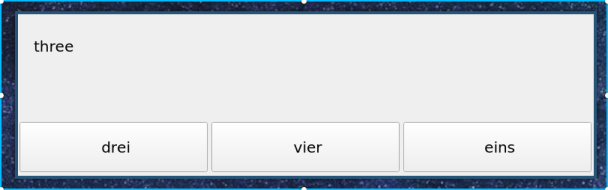
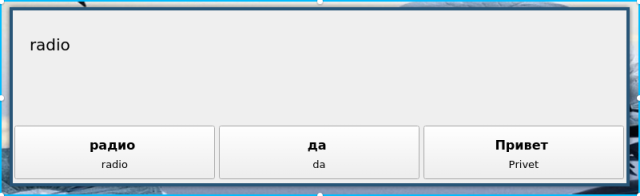
Added dual language buttons.
Subclassed push buttons on testing screen to support multilined,
clickable, text.

diff --git a/vocabBuilder.py b/vocabBuilder.py
@@ -18,7 +18,7 @@ if getattr(sys, 'frozen', False):
 else:
     dir_path = os.path.dirname(os.path.abspath(__file__)) + os.sep
 
-__version__ = '0.2.0'
+__version__ = '0.3.0'
 
 #GUI testing screen options
 window_height = 0.20
@@ -26,10 +26,13 @@ window_width = 0.40
 padding = 0.02
 
 #Program type CLI/GUI
-mode = 'CLI'
+mode = 'GUI'
 
 #Testing variable for pause/run
 testing = True
+
+#Variable for number of columns in csv data file
+langNumber = None
 
 class MainMenu(QMainWindow):
 
@@ -258,6 +261,88 @@ class TrayIcon(QMainWindow):
             testing = True
             self.pause_action.setText('Pause')
 
+#Subclass QLabel so custom mouse events can be used
+class ClickLabel(QLabel):
+
+    def __init(self,parent):
+        QLabel.__init__(self,parent)
+
+    def setCallback(self,press,release):
+        self.press = press
+        self.release = release
+
+    def mousePressEvent(self,event):
+        self.press()
+
+    def mouseReleaseEvent(self,event):
+        self.release()
+
+#Subclass so custom click events and multiline text can be used.
+class QuestionButton(QPushButton):
+
+    def __init__(self,parent,labelNumber,dimensions):
+        QPushButton.__init__(self,parent)
+        self.pressed.connect(self.buttonClicked)
+        self.released.connect(self.buttonReleased)
+        self.labelNumber = labelNumber
+        self.dimensions = dimensions
+        self.initLayout()
+        return
+
+    def initLayout(self):
+
+        btn1_layout = QVBoxLayout()
+        self.btn1_text1 = ClickLabel()
+        self.btn1_text1.setCallback(self.buttonClicked,self.buttonReleased)
+        self.btn1_text1.setTextFormat(QtCore.Qt.RichText);
+        self.btn1_text1.setStyleSheet("background-color: rgba(0,0,0,0%)")
+        self.btn1_text1.setAlignment(QtCore.Qt.AlignCenter | QtCore.Qt.AlignTop)
+        self.btn1_text1.setFixedHeight(self.dimensions['button_height'] / 3)
+        btn1_layout.addWidget(self.btn1_text1)
+
+        if self.labelNumber == 2:
+
+            self.btn1_text2 = ClickLabel()
+            self.btn1_text2.setCallback(self.buttonClicked,self.buttonReleased)
+            self.btn1_text2.setStyleSheet("background-color: rgba(0,0,0,0%)")
+            self.btn1_text2.setTextFormat(QtCore.Qt.RichText);
+            self.btn1_text2.setAlignment(QtCore.Qt.AlignCenter | QtCore.Qt.AlignBottom)
+            self.btn1_text2.setFixedHeight(self.dimensions['button_height'] / 3)
+            btn1_layout.addWidget(self.btn1_text2)
+
+        self.setLayout(btn1_layout)
+        return
+
+    def setText(self,main,alternate=None):
+
+        self.main = main
+        self.alternate = alternate
+        self.font_height_1 = int(self.height()/4)
+        self.font_height_2 = int(self.height()/5)
+        self.btn1_text1.setText( "<span style='font-size:{}px; \
+                font-weight:600; \
+                color:#000000;'>{}</span>".format(self.font_height_1,main))
+        if self.labelNumber == 2:
+            self.btn1_text2.setText( "<span style='font-size:{}px; \
+                    color:#000000;'>{}</span>".format(self.font_height_2,alternate))
+        return
+
+    def setOnClicked(self,target):
+        self.target = target
+        return
+
+    def buttonClicked(self):
+
+        self.setDown(True)
+        return
+    
+    def buttonReleased(self):
+
+        self.setDown(False)
+        self.setStyleSheet("")
+        self.target(self.main,self)
+        return
+
 class QuestionWindow(QMainWindow):
 
     def __init__(self,app):
@@ -281,6 +366,7 @@ class QuestionWindow(QMainWindow):
     #Clear up the UI and make a new question
     def newQuestion(self):
 
+
         if self.current_question_index >= len(self.questions):
             self.window.close()
             return
@@ -289,20 +375,27 @@ class QuestionWindow(QMainWindow):
         self.current_question_index += 1
 
         self.question_text.setText(self.current_question['question'])
-        self.btn1.setText(self.current_question['choice_1'])
-        self.btn2.setText(self.current_question['choice_2'])
-        self.btn3.setText(self.current_question['choice_3'])
+
+        self.btn1.setText(
+                self.current_question['choice_1'],
+                self.current_question['alternate_1'])
+        self.btn2.setText(
+                self.current_question['choice_2'],
+                self.current_question['alternate_2'])
+        self.btn3.setText(
+                self.current_question['choice_3'],
+                self.current_question['alternate_3'])
         self.btn1.setStyleSheet("background-color: none")
         self.btn2.setStyleSheet("background-color: none")
         self.btn3.setStyleSheet("background-color: none")
 
     #Gets called when a button is pressed
-    def buttonClicked(self):
+    def buttonClicked(self,text,sender):
 
-        if self.sender().text() == self.current_question['correct']:
+        if text == self.current_question['correct']:
             self.newQuestion()
         else:
-            self.sender().setStyleSheet("background-color: red")
+            sender.setStyleSheet("background-color: red")
         return
 
     #Setup the UI
@@ -327,20 +420,20 @@ class QuestionWindow(QMainWindow):
         self.question_text.resize(dimensions['text_width'],dimensions['text_height'])
         self.question_text.move(dimensions['text_x'],dimensions['text_y'])
 
-        self.btn1 = QPushButton(self.window)
+        self.btn1 = QuestionButton(self.window,langNumber,dimensions)
         self.btn1.resize(dimensions['button_width'],dimensions['button_height'])
         self.btn1.move(dimensions['button_x1'], dimensions['button_y'])  
-        self.btn1.clicked.connect(self.buttonClicked)
+        self.btn1.setOnClicked(self.buttonClicked)
 
-        self.btn2 = QPushButton(self.window)
+        self.btn2 = QuestionButton(self.window,langNumber,dimensions)
         self.btn2.resize(dimensions['button_width'],dimensions['button_height'])
         self.btn2.move(dimensions['button_x2'], dimensions['button_y'])  
-        self.btn2.clicked.connect(self.buttonClicked)
+        self.btn2.setOnClicked(self.buttonClicked)
 
-        self.btn3 = QPushButton(self.window)
+        self.btn3 = QuestionButton(self.window,langNumber,dimensions)
         self.btn3.resize(dimensions['button_width'],dimensions['button_height'])
         self.btn3.move(dimensions['button_x3'], dimensions['button_y'])  
-        self.btn3.clicked.connect(self.buttonClicked)
+        self.btn3.setOnClicked(self.buttonClicked)
         return 
 
     def getWindowDimensions(self):
@@ -386,6 +479,9 @@ class QuestionMaker():
         with open(questionFile,'r',encoding="utf8") as f:
             reader = csv.reader(f)
             self.questions = list(reader)
+            
+        global langNumber
+        langNumber = len(self.questions[0]) - 1
 
         questionList = []
         indexList = random.sample(range(0, len(self.questions)), len(self.questions))
@@ -406,6 +502,19 @@ class QuestionMaker():
             current['choice_{}'.format(choices[0])] = self.questions[i][1]
             current['choice_{}'.format(choices[1])] = self.questions[incorrect_1][1]
             current['choice_{}'.format(choices[2])] = self.questions[incorrect_2][1]
+
+            #If three languages are specified, make some alternate text as well
+            if langNumber == 2:
+
+                current['alternate_{}'.format(choices[0])] = self.questions[i][2]
+                current['alternate_{}'.format(choices[1])] = self.questions[incorrect_1][2]
+                current['alternate_{}'.format(choices[2])] = self.questions[incorrect_2][2]
+
+            else:
+                current['alternate_{}'.format(choices[0])] = ''
+                current['alternate_{}'.format(choices[1])] = ''
+                current['alternate_{}'.format(choices[2])] = ''
+
             questionList.append(current)
 
         questionList = self.padList(questionNumber,questionList)

diff --git a/README.md b/README.md
@@ -66,6 +66,8 @@ three, drei
 four, vier
 grenadier, Grenadier
 ```
+If only two columns (tranlations) are specified, the testing screen included only one translation on each button. If three columns exist, the button contains an alternate text, as shown in the screenshot above. This is useful for phonetic pronunciation or an alternate language.
+
 ## Graphical User Interface
 
 The graphical interface consists of a simple main menu in which the basic options and word dictionary can be selected before the tests are run.
